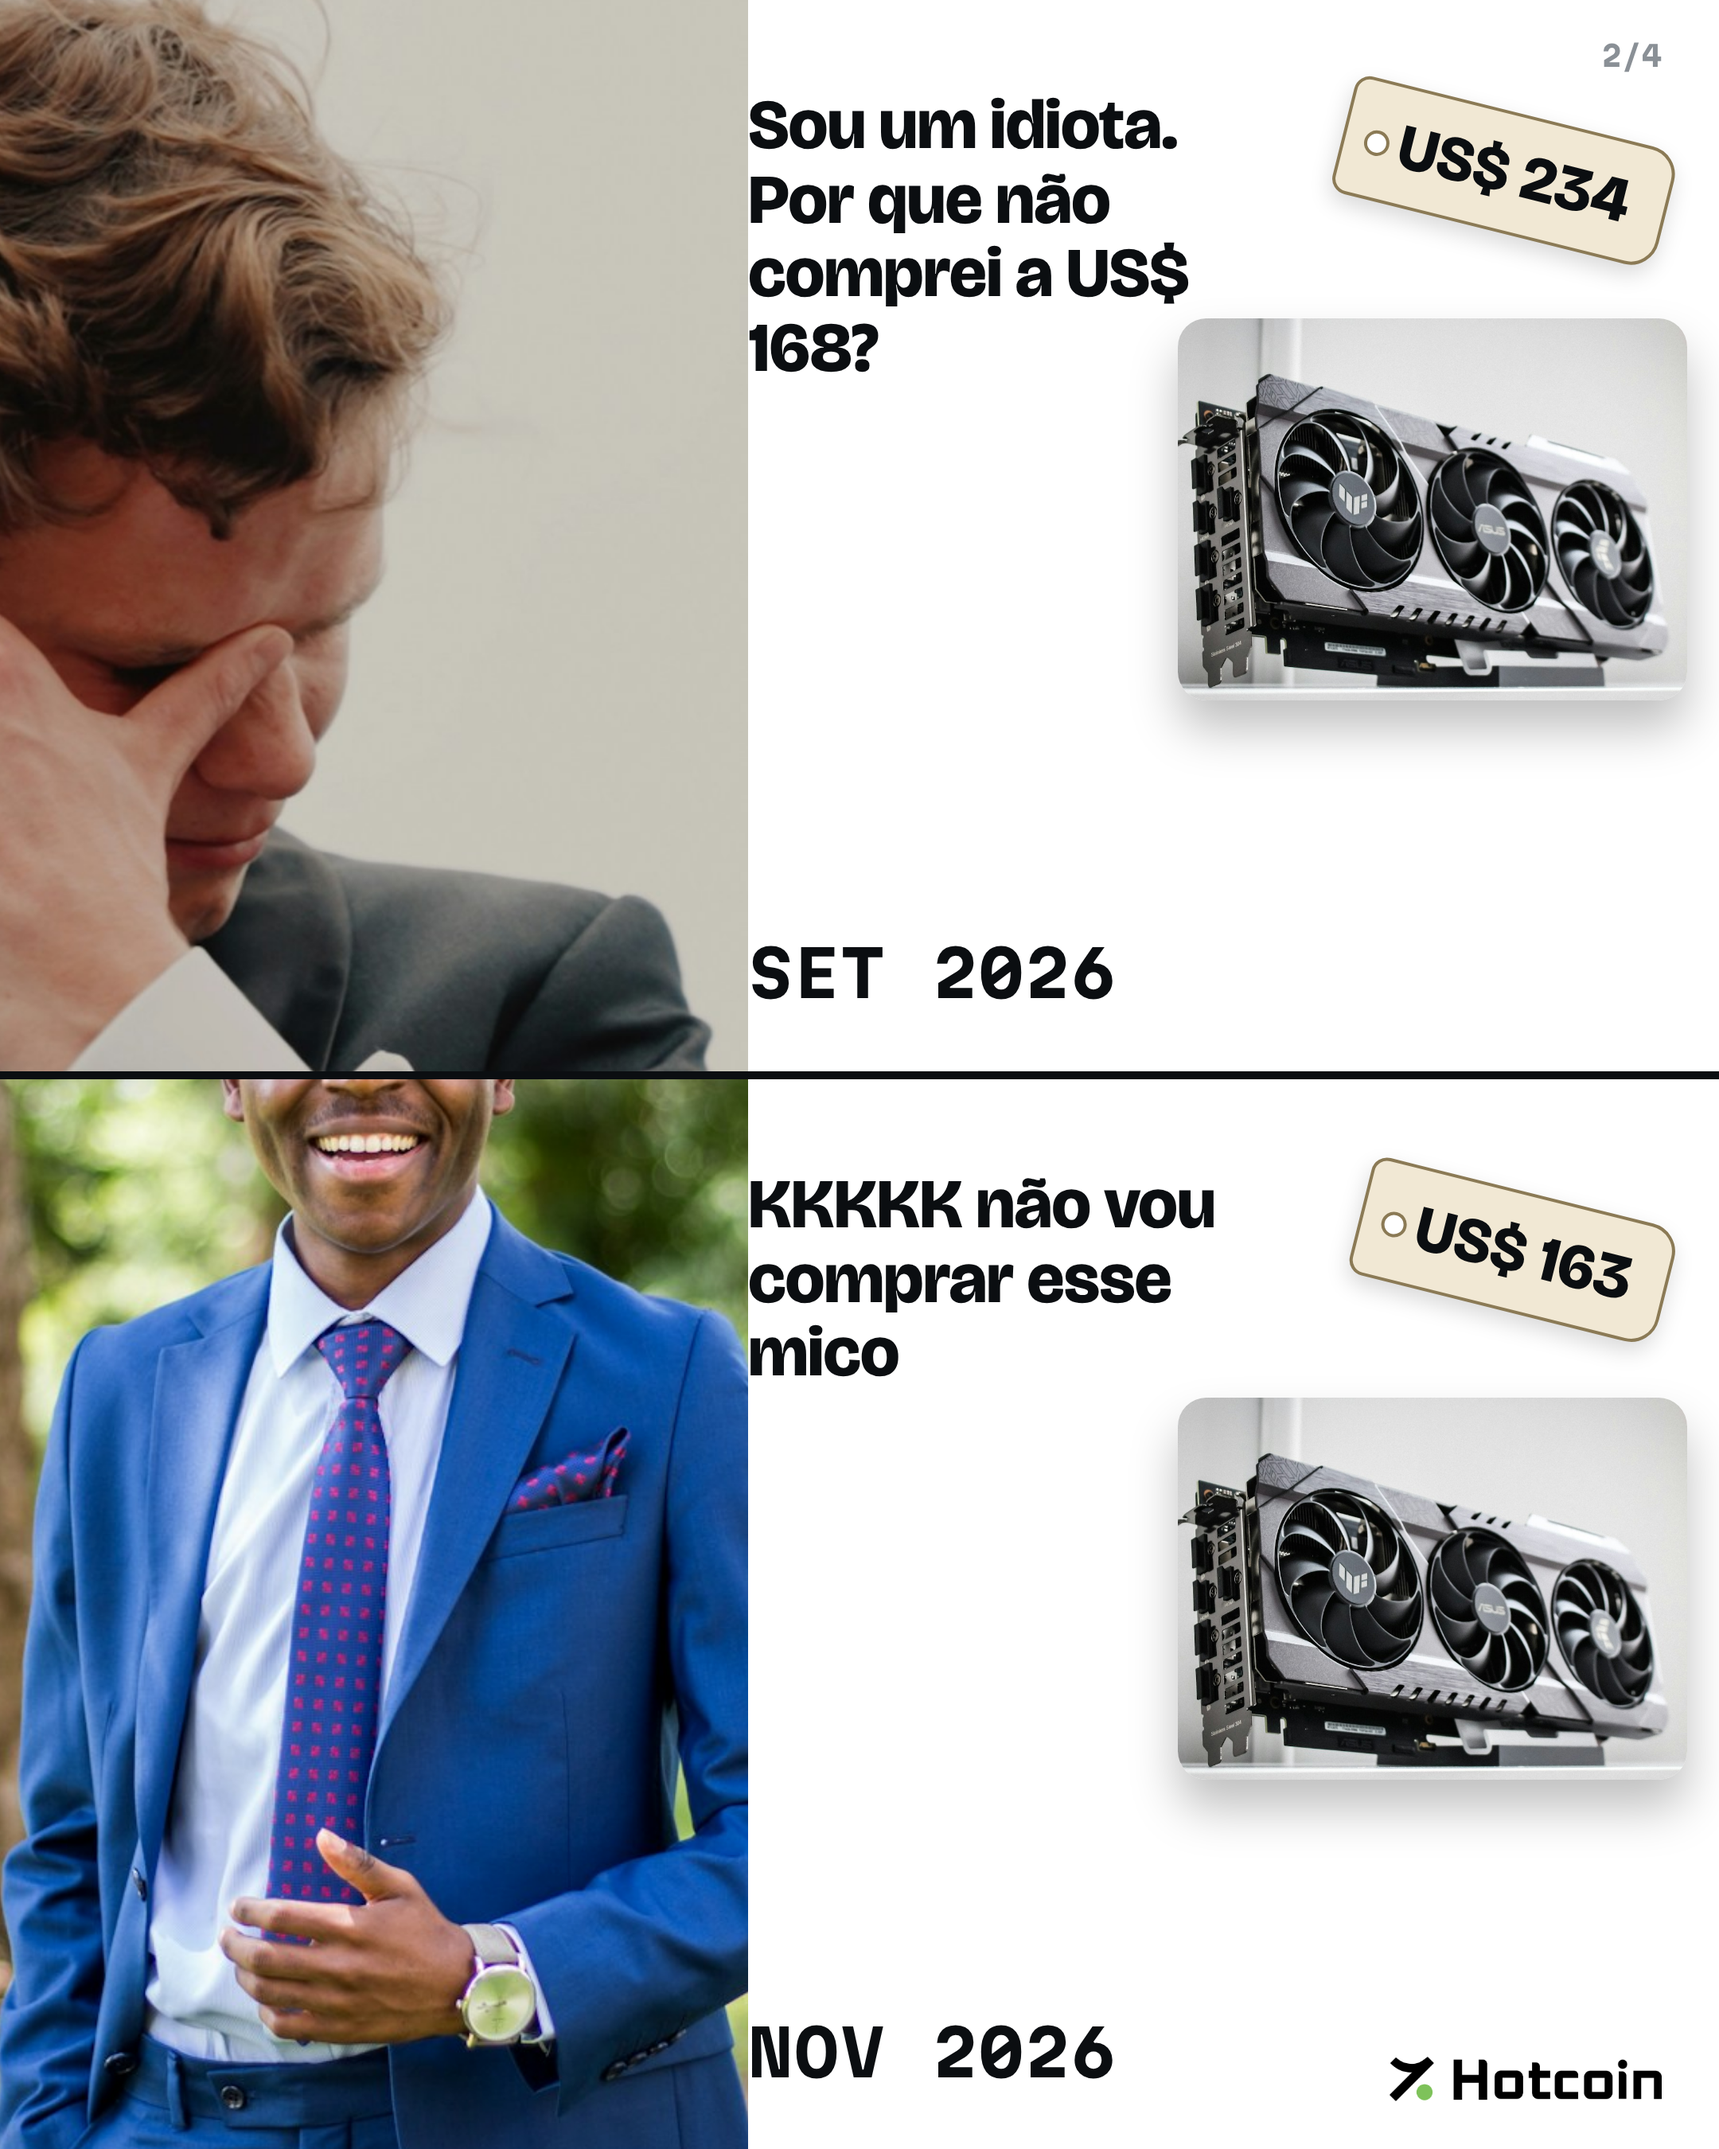
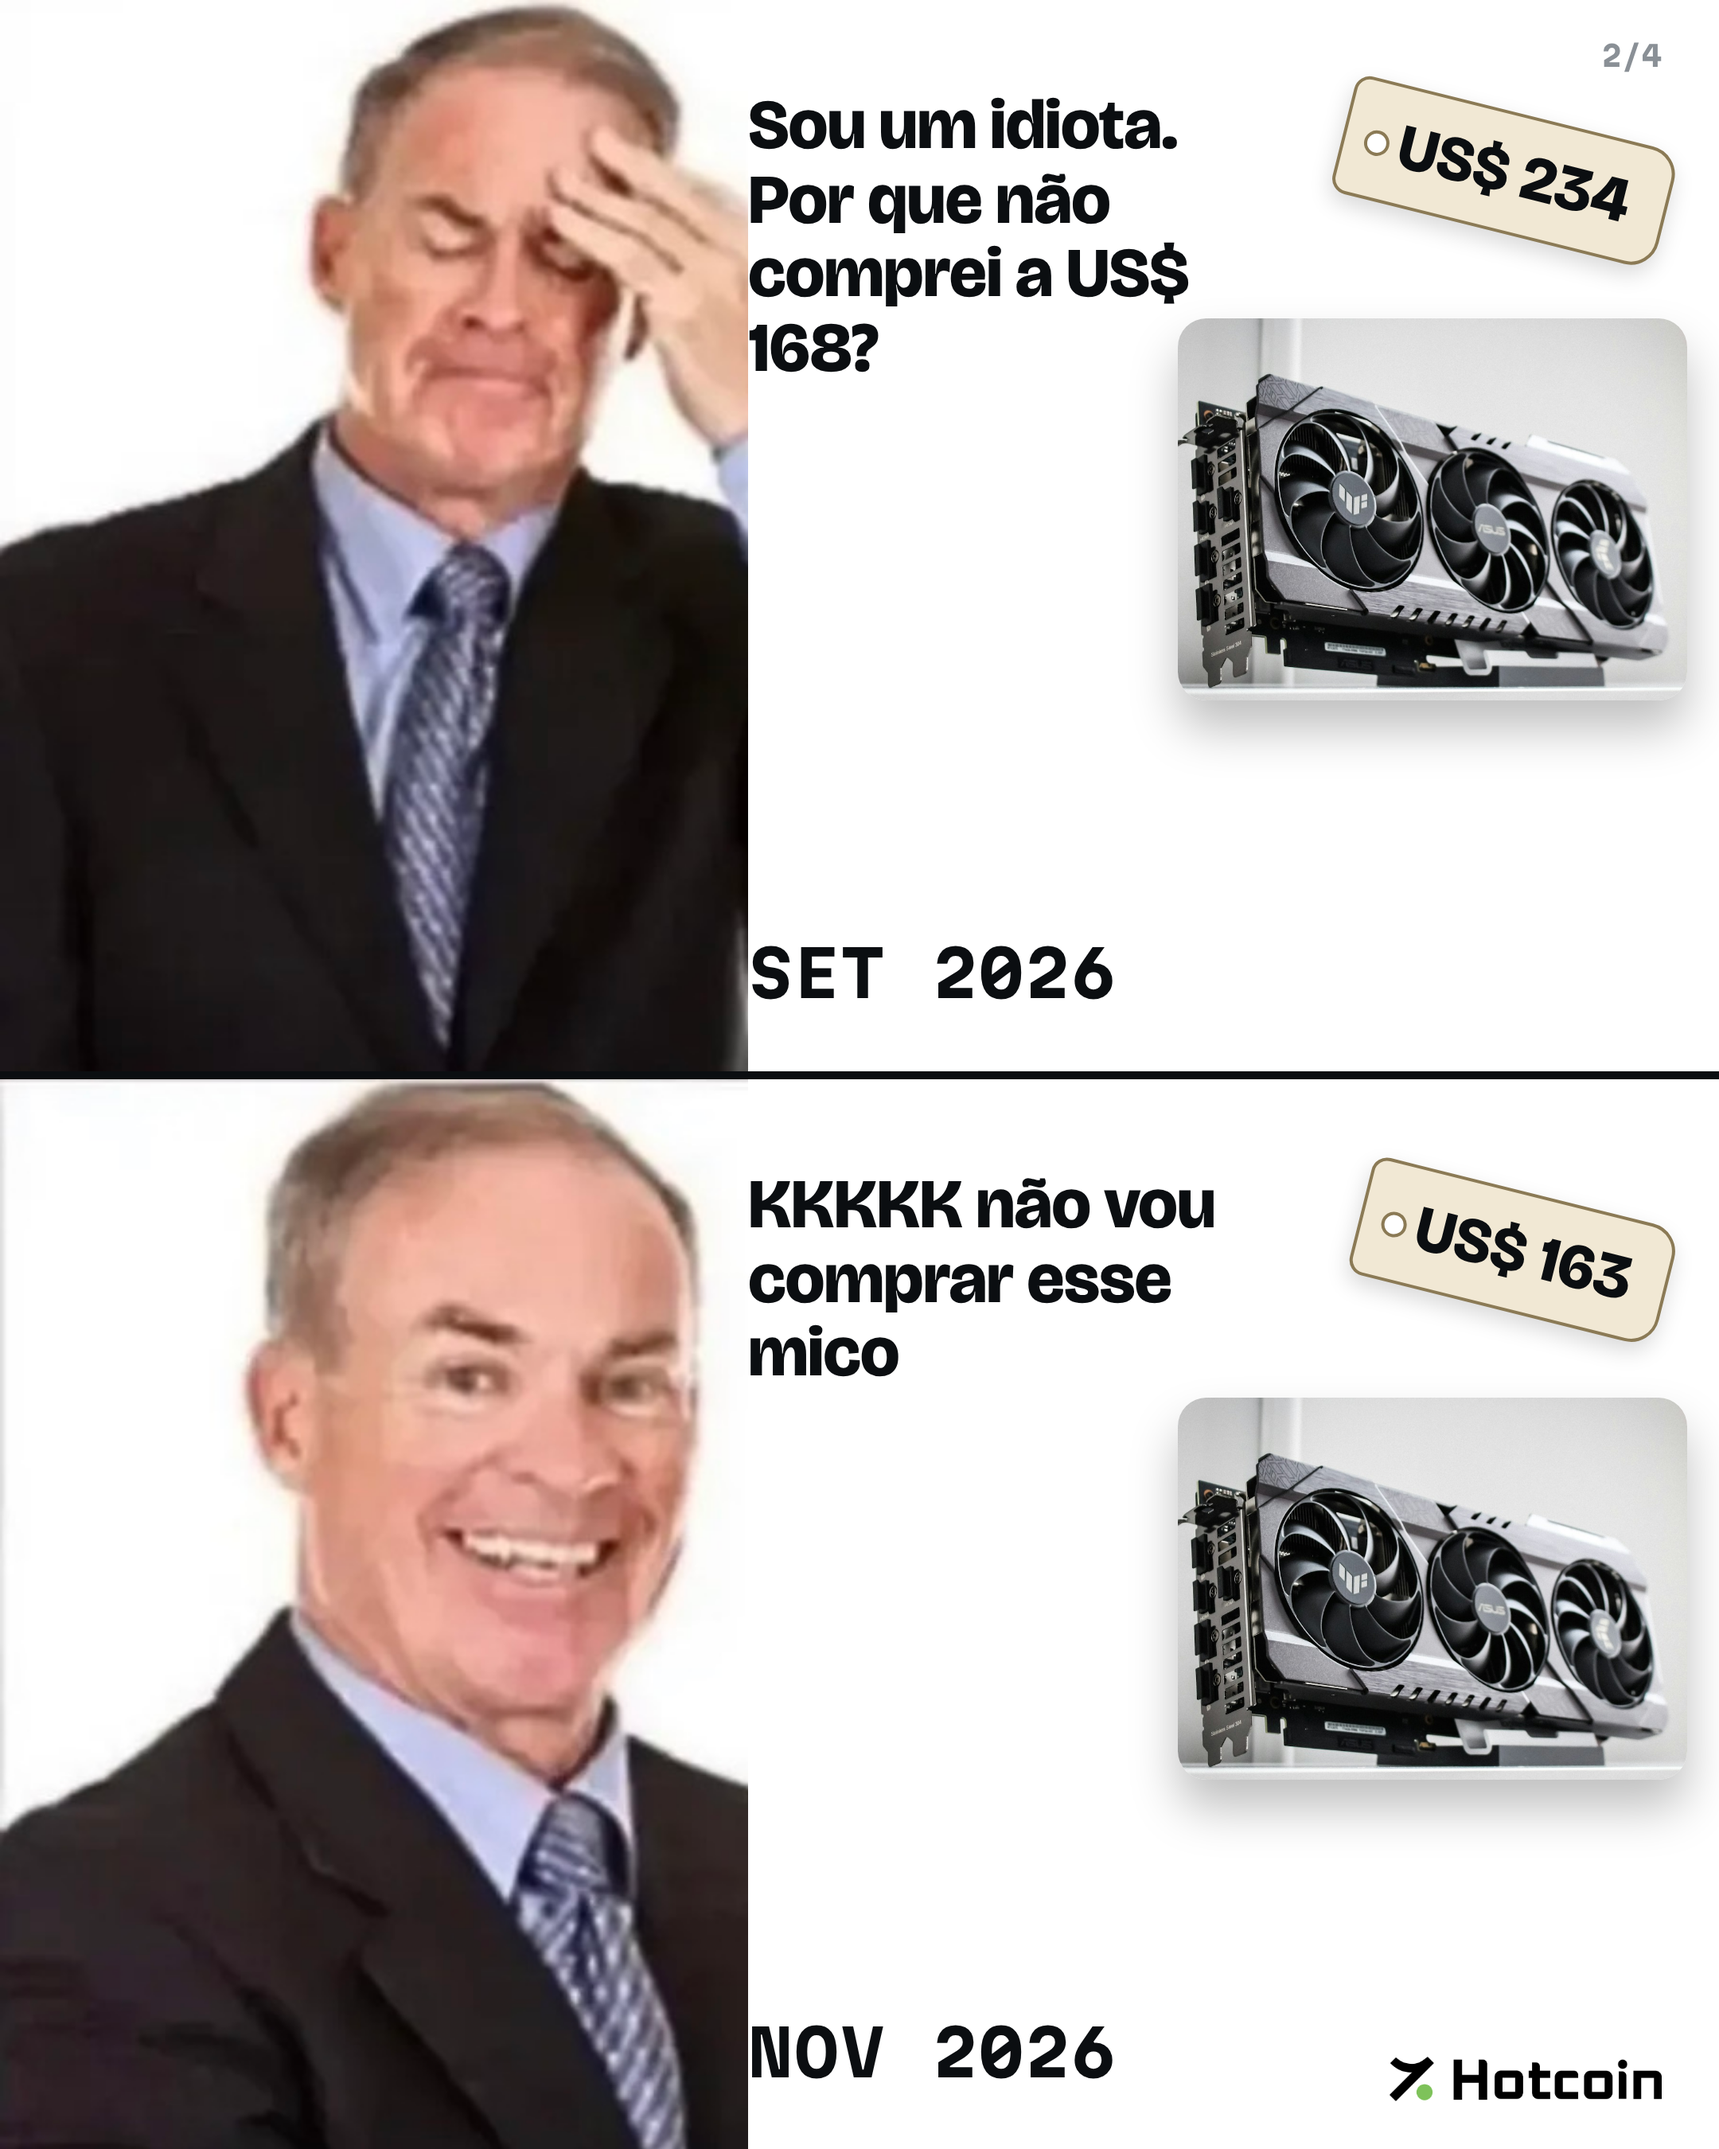
Rules: real meme templates allowed for meme posts (owner decision); meme carousel rebuilt on the actual template
Claude-Session: https://claude.ai/code/session_013qM1W9H3t8kg1kjsoaDF2S

diff --git a/social/pt/RUNBOOK.md b/social/pt/RUNBOOK.md
@@ -31,9 +31,9 @@ Read `LOG.md` (what ran, what is queued) before planning.
 - **Recibo** (Earn worked example, green cup, `talao`).
 - **Placar do dia** (top coin vs BTC, `news_br.mjs`), **Raio-X da rede** (one chain a week, DefiLlama), **Raio-X TradFi** (stock news; real person photo allowed ONLY here, licensed CC/press, credit in caption, facts only, no allegations).
 - **Meme of the day**, alternate two kinds (never the same kind two days running, skip some days):
+  - *Real meme templates* (owner rule, 15 Nov 2026): use the actual well-known templates (imgflip / knowyourmeme classics, including the people and products in them) and re-caption them in pt-BR with crypto/market jokes. Example: `meme_regret.mjs` ("não vou comprar esse mico" carousel built on the "why didn't I buy / ain't buying that brick" template). Keep a library in `art/meme/` (`template-*.jpg`).
   - *Serious photo + unhinged caption*: mono photo, lowercase X-style caption, Brazilian life (churrasco, miojo, gerente do banco, 0800, Pix, fim do mês).
-  - *Template formats rebuilt from scratch*: well-known meme layouts (regret then smug, expectativa x realidade, two-button choice, "ninguém: / eu:", before/after) recreated with Unsplash photos where people stay anonymous (face covered, back view, or cropped below the eyes) plus our own text. Example: `meme_regret.mjs` (carousel "não vou comprar esse mico"). Never paste the original template image, never copy brand/product art (draw a neutral stand-in instead).
-  - Prices inside memes are real and dated (script comments + caption). No real public figures, no politics, no club bashing, no product pitch.
+  - Hard lines that stay: no fake endorsement (never make a celebrity or brand look like they use, recommend or partner with Hotcoin), no fake Hotcoin logo use on other brands, no politics, no club bashing, no hate. Prices in memes are real and dated (script comments + caption).
 - **Text posts / polls**: city rivalry, quick questions, Sunday-night humour.
 
 ## 3. Data rules

diff --git a/CLAUDE.md b/CLAUDE.md
@@ -10,6 +10,8 @@ plus ready-to-post copy for X, Instagram, LinkedIn, TikTok and Telegram. Read th
 - **No real people's likeness implying endorsement** (no founder/celebrity photos or quotes on promos). Stock people only
   when anonymous (back view, face covered). Footage: only freely licensed or public domain (Unsplash, NASA, Prelinger/archive.org).
   Log every outside photo/footage in `hotcoin-tradfi/FOOTAGE_CREDITS.md`.
+- **Exception, meme posts (owner decision, 15 Nov 2026):** real, well-known internet meme templates may be used as-is,
+  including the people and products in them, re-captioned with our jokes. Still never imply a person or brand endorses Hotcoin.
 - **Never name competitors** in public copy (e.g. don't mention Binance or OKX, even when their news is relevant).
   Styles can be *inspired by* competitors, never copied.
 - **Verify every number and claim** with a source before it goes on a graphic. Put the date of the data on the slide or in
